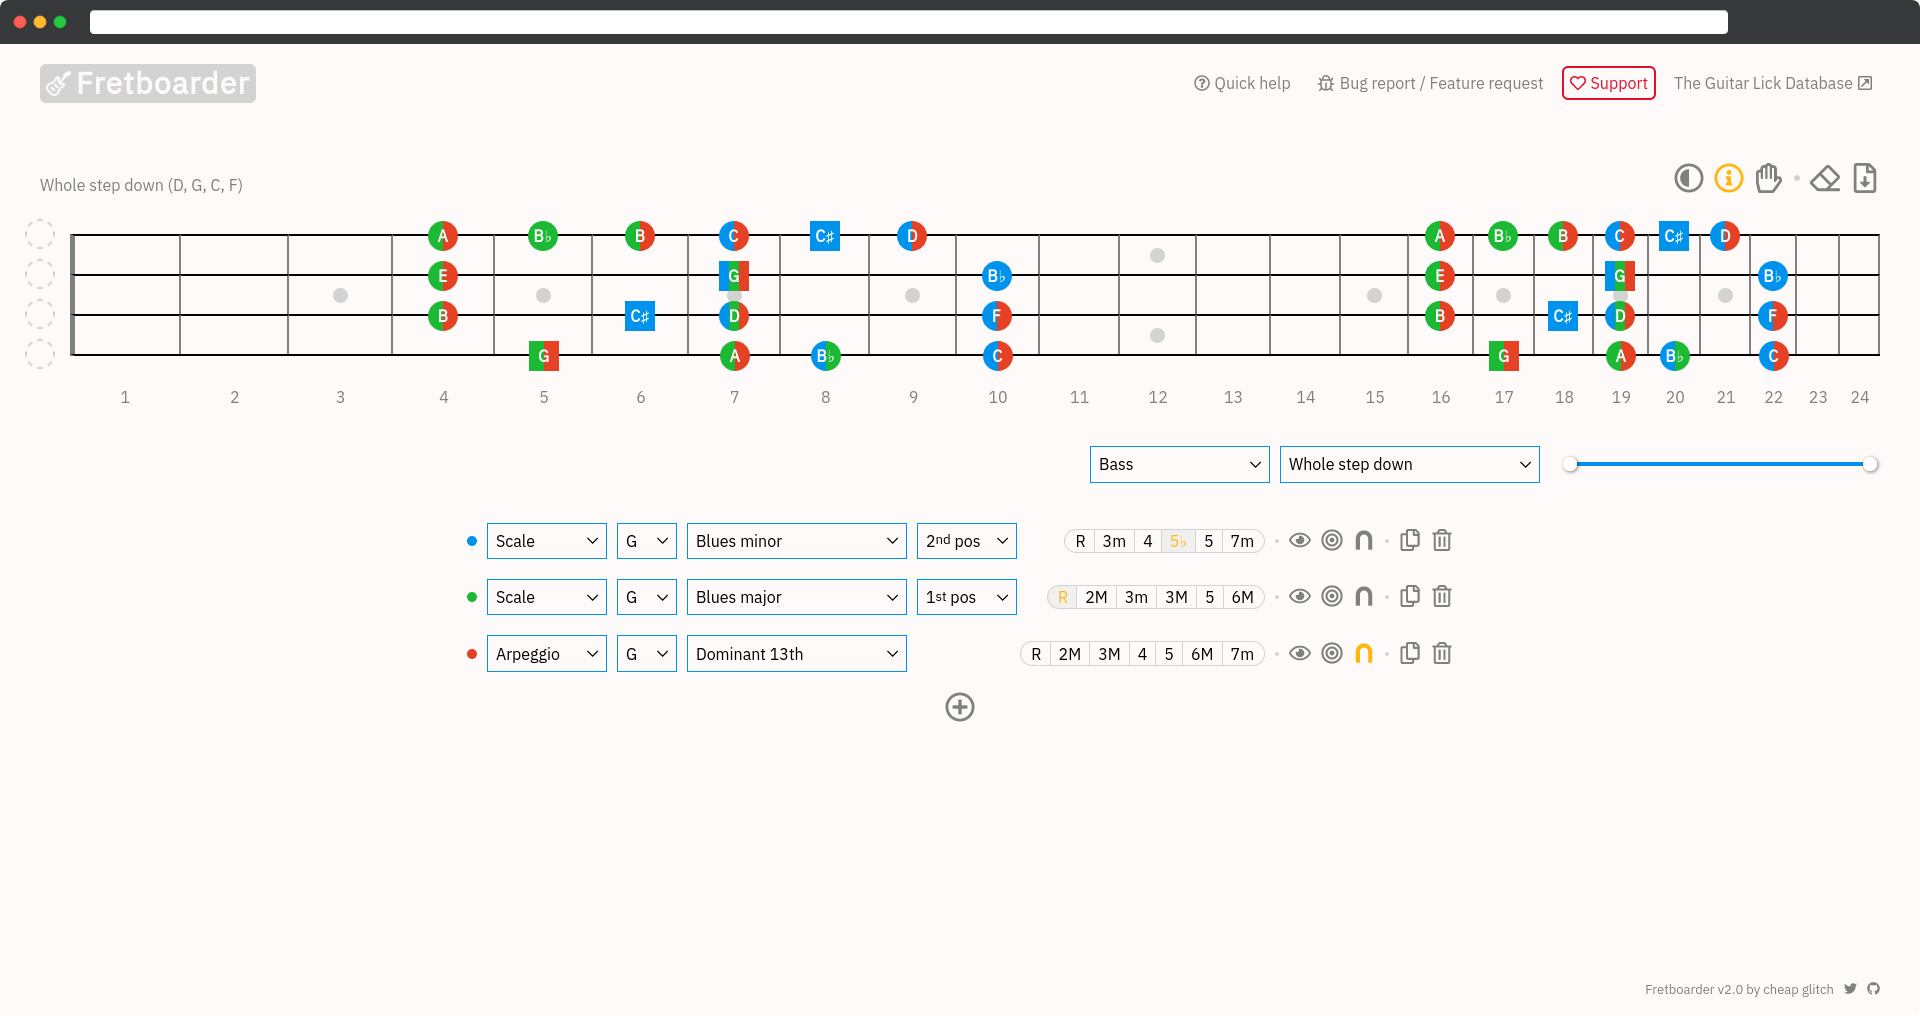
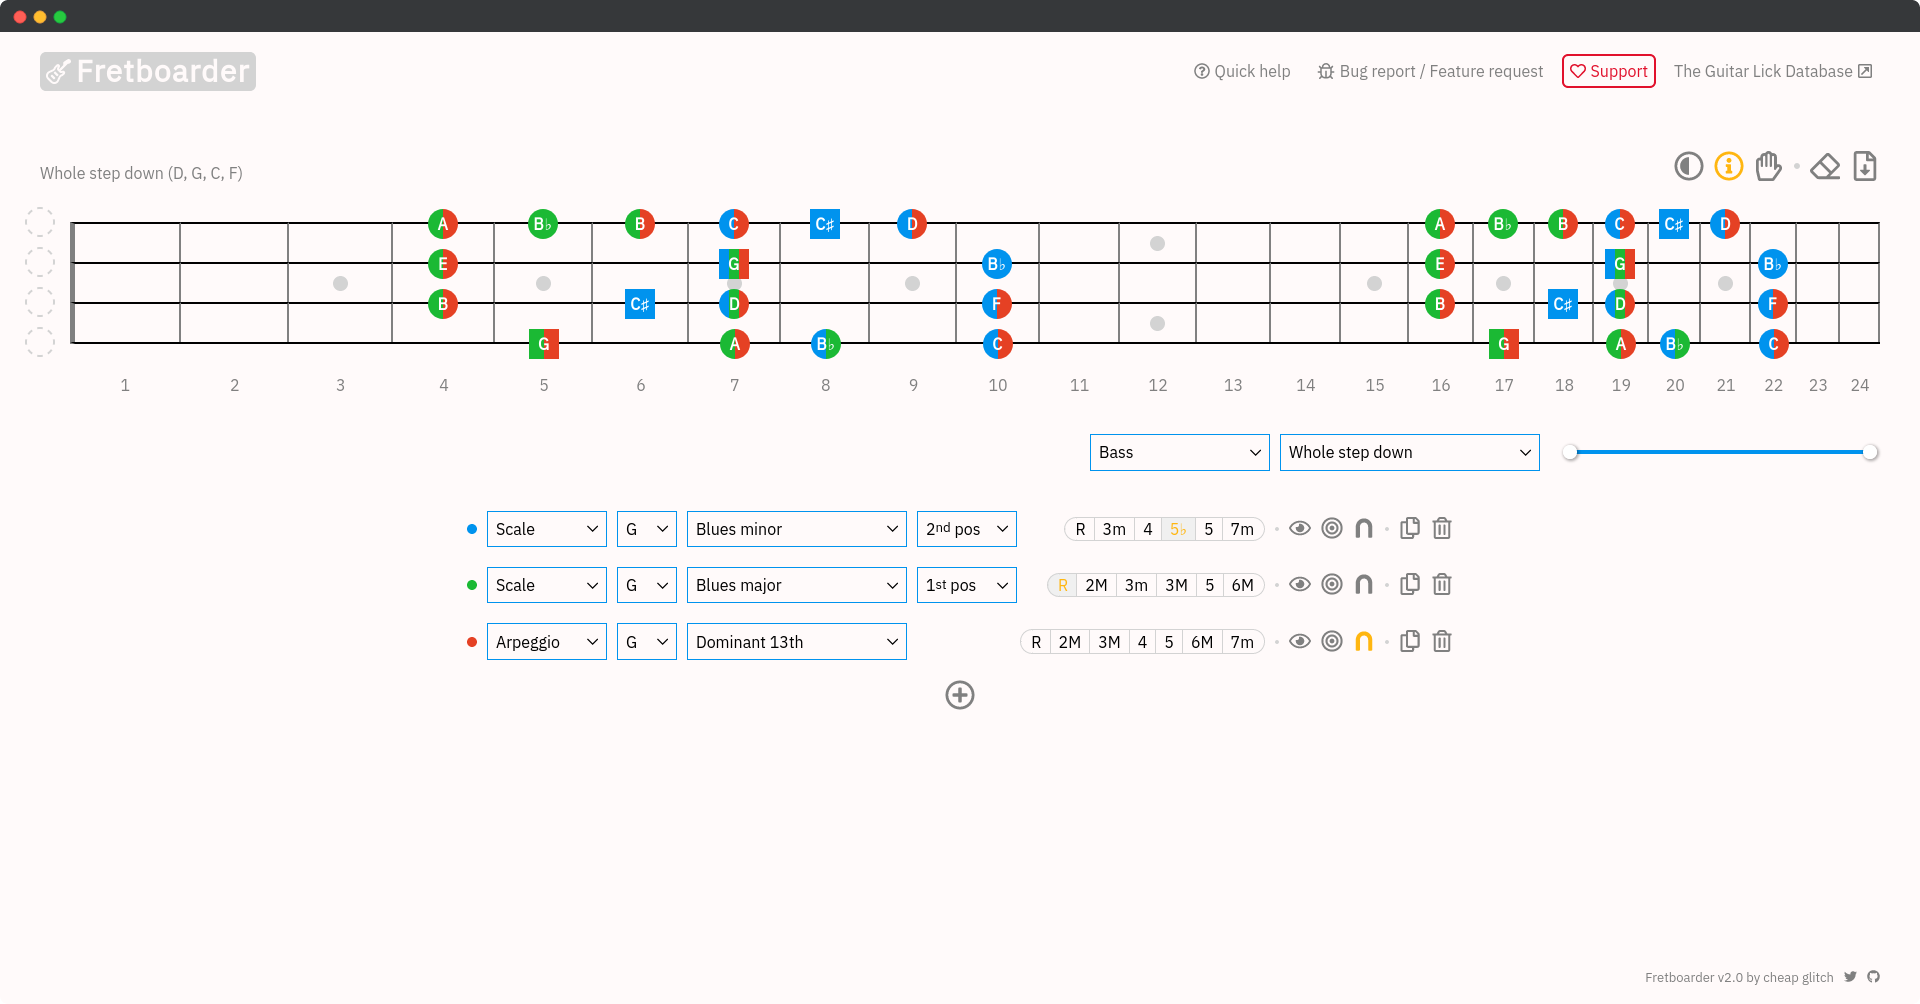
Fix screenshots

diff --git a/README.md b/README.md
@@ -21,16 +21,16 @@ of scales and arpeggios across a variety of fretboards. Features:
 ## Screenshots
 
 ![screenshot (light mode)](https://raw.githubusercontent.com/cheap-glitch/fretboarder/develop/docs/screenshot-01.png)
-<p align="center"><em>light mode</em></p>
+<p align="center"><em>Light mode</em></p>
 
 <p>&nbsp;</p>
 
 ![screenshot (dark  mode)](https://raw.githubusercontent.com/cheap-glitch/fretboarder/develop/docs/screenshot-02.png)
-<p align="center"><em>light mode</em></p>
+<p align="center"><em>Dark mode</em></p>
 
 ## Credits & acknowledgements
 
-The dark mode colorscheme is heavily inspired by [Vue Dark Mode](https://www.growthbunker.dev/vuedarkmode).
+Dark mode colorscheme heavily inspired by [Vue Dark Mode](https://www.growthbunker.dev/vuedarkmode).
 
 ## License
 
